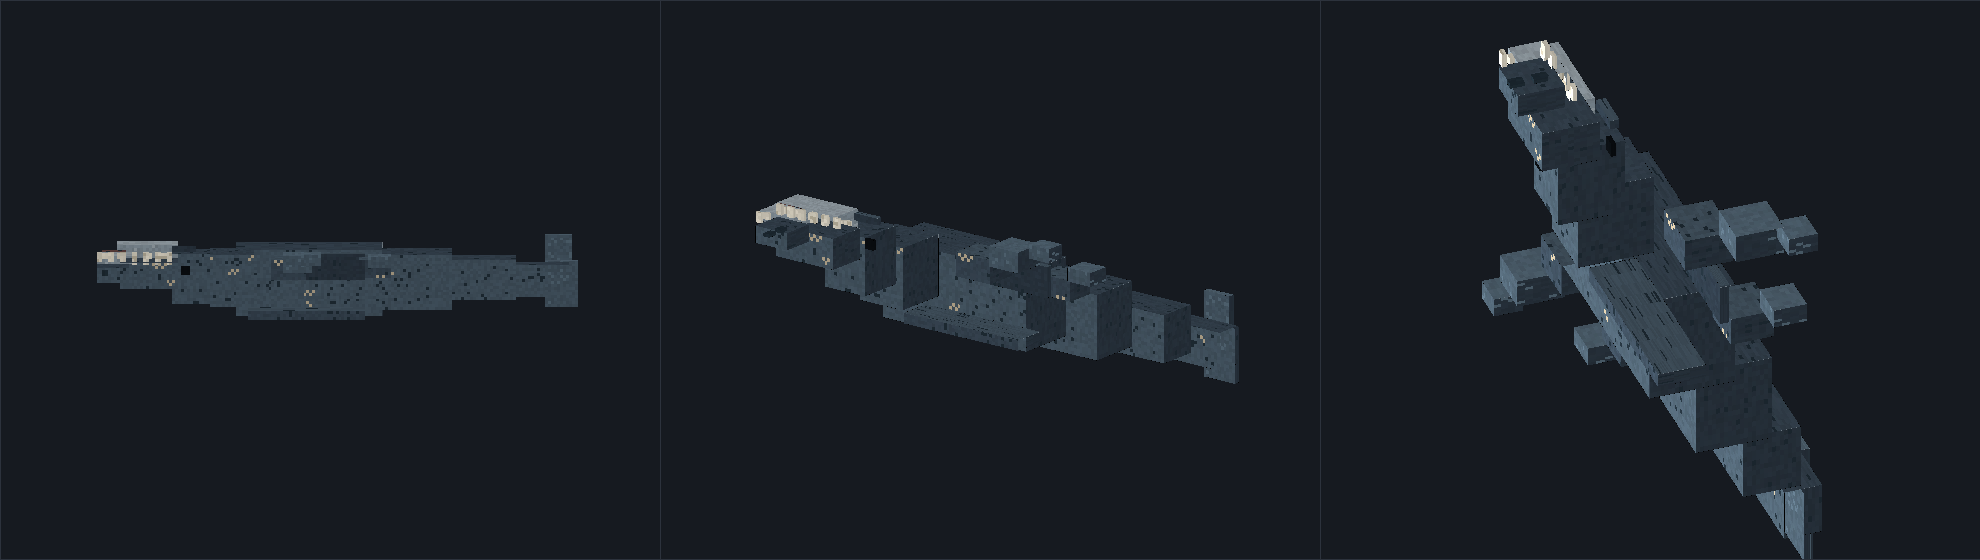
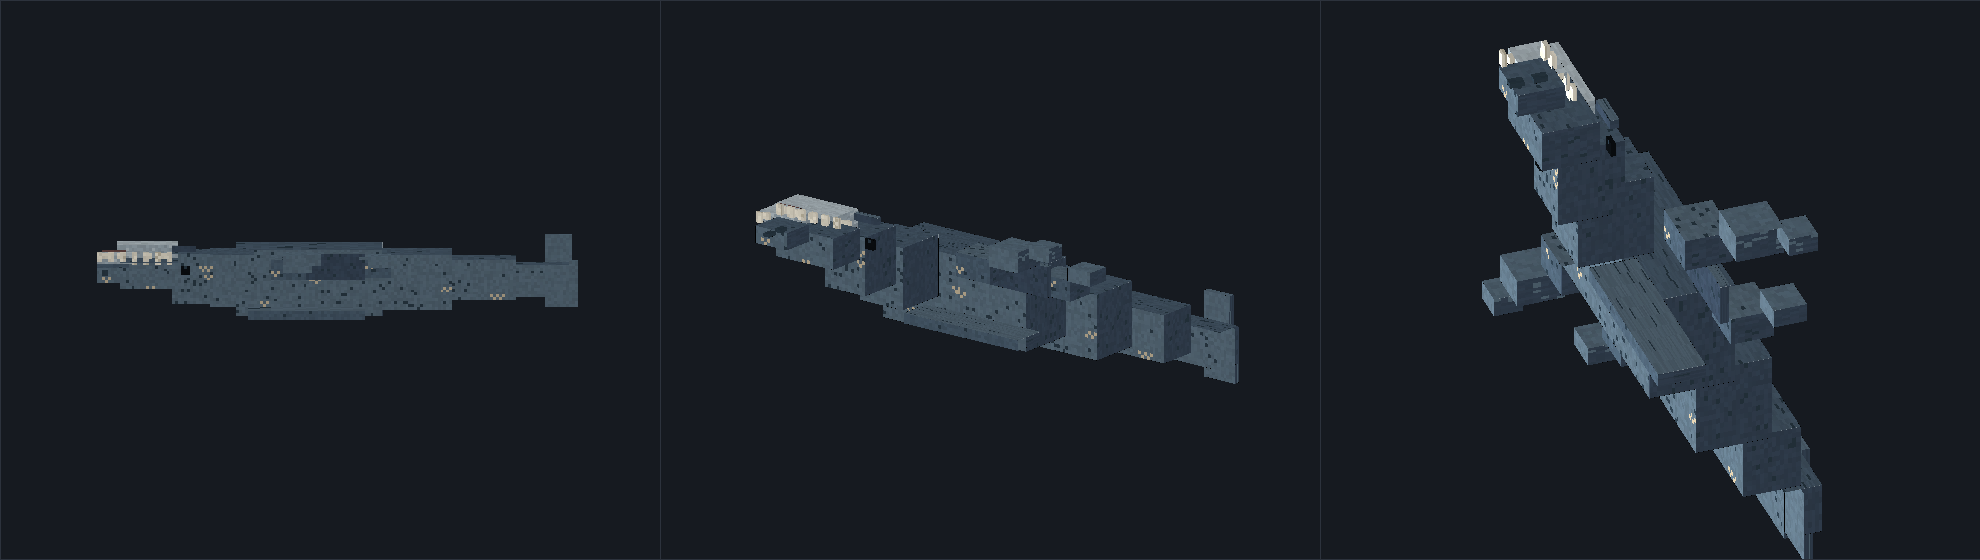
polish(v0.37.0): lighter Liopleurodon palette and dentition visible in fog/water

diff --git a/tools/rift/gen_v033_liopleurodon_model.py b/tools/rift/gen_v033_liopleurodon_model.py
@@ -30,13 +30,13 @@ ATLAS = 256
 PAD = 1
 
 # палитра (как в референсе и в концепте)
-BACK_DARK = "#2E3A46"
-BACK = "#3C4B59"
-SIDE = "#4B5D6B"
-BELLY = "#8C9AA4"
-BELLY_LIGHT = "#A8B4BC"
+BACK_DARK = "#39485A"
+BACK = "#4A5D6E"
+SIDE = "#5A6E7D"
+BELLY = "#9DABB4"
+BELLY_LIGHT = "#BAC6CC"
 SCAR = "#C6B79A"
-SPOT = "#22303A"
+SPOT = "#2B3B47"
 TOOTH = "#EDE6D4"
 GUM = "#6B4A47"
 EYE = "#0B0F12"
